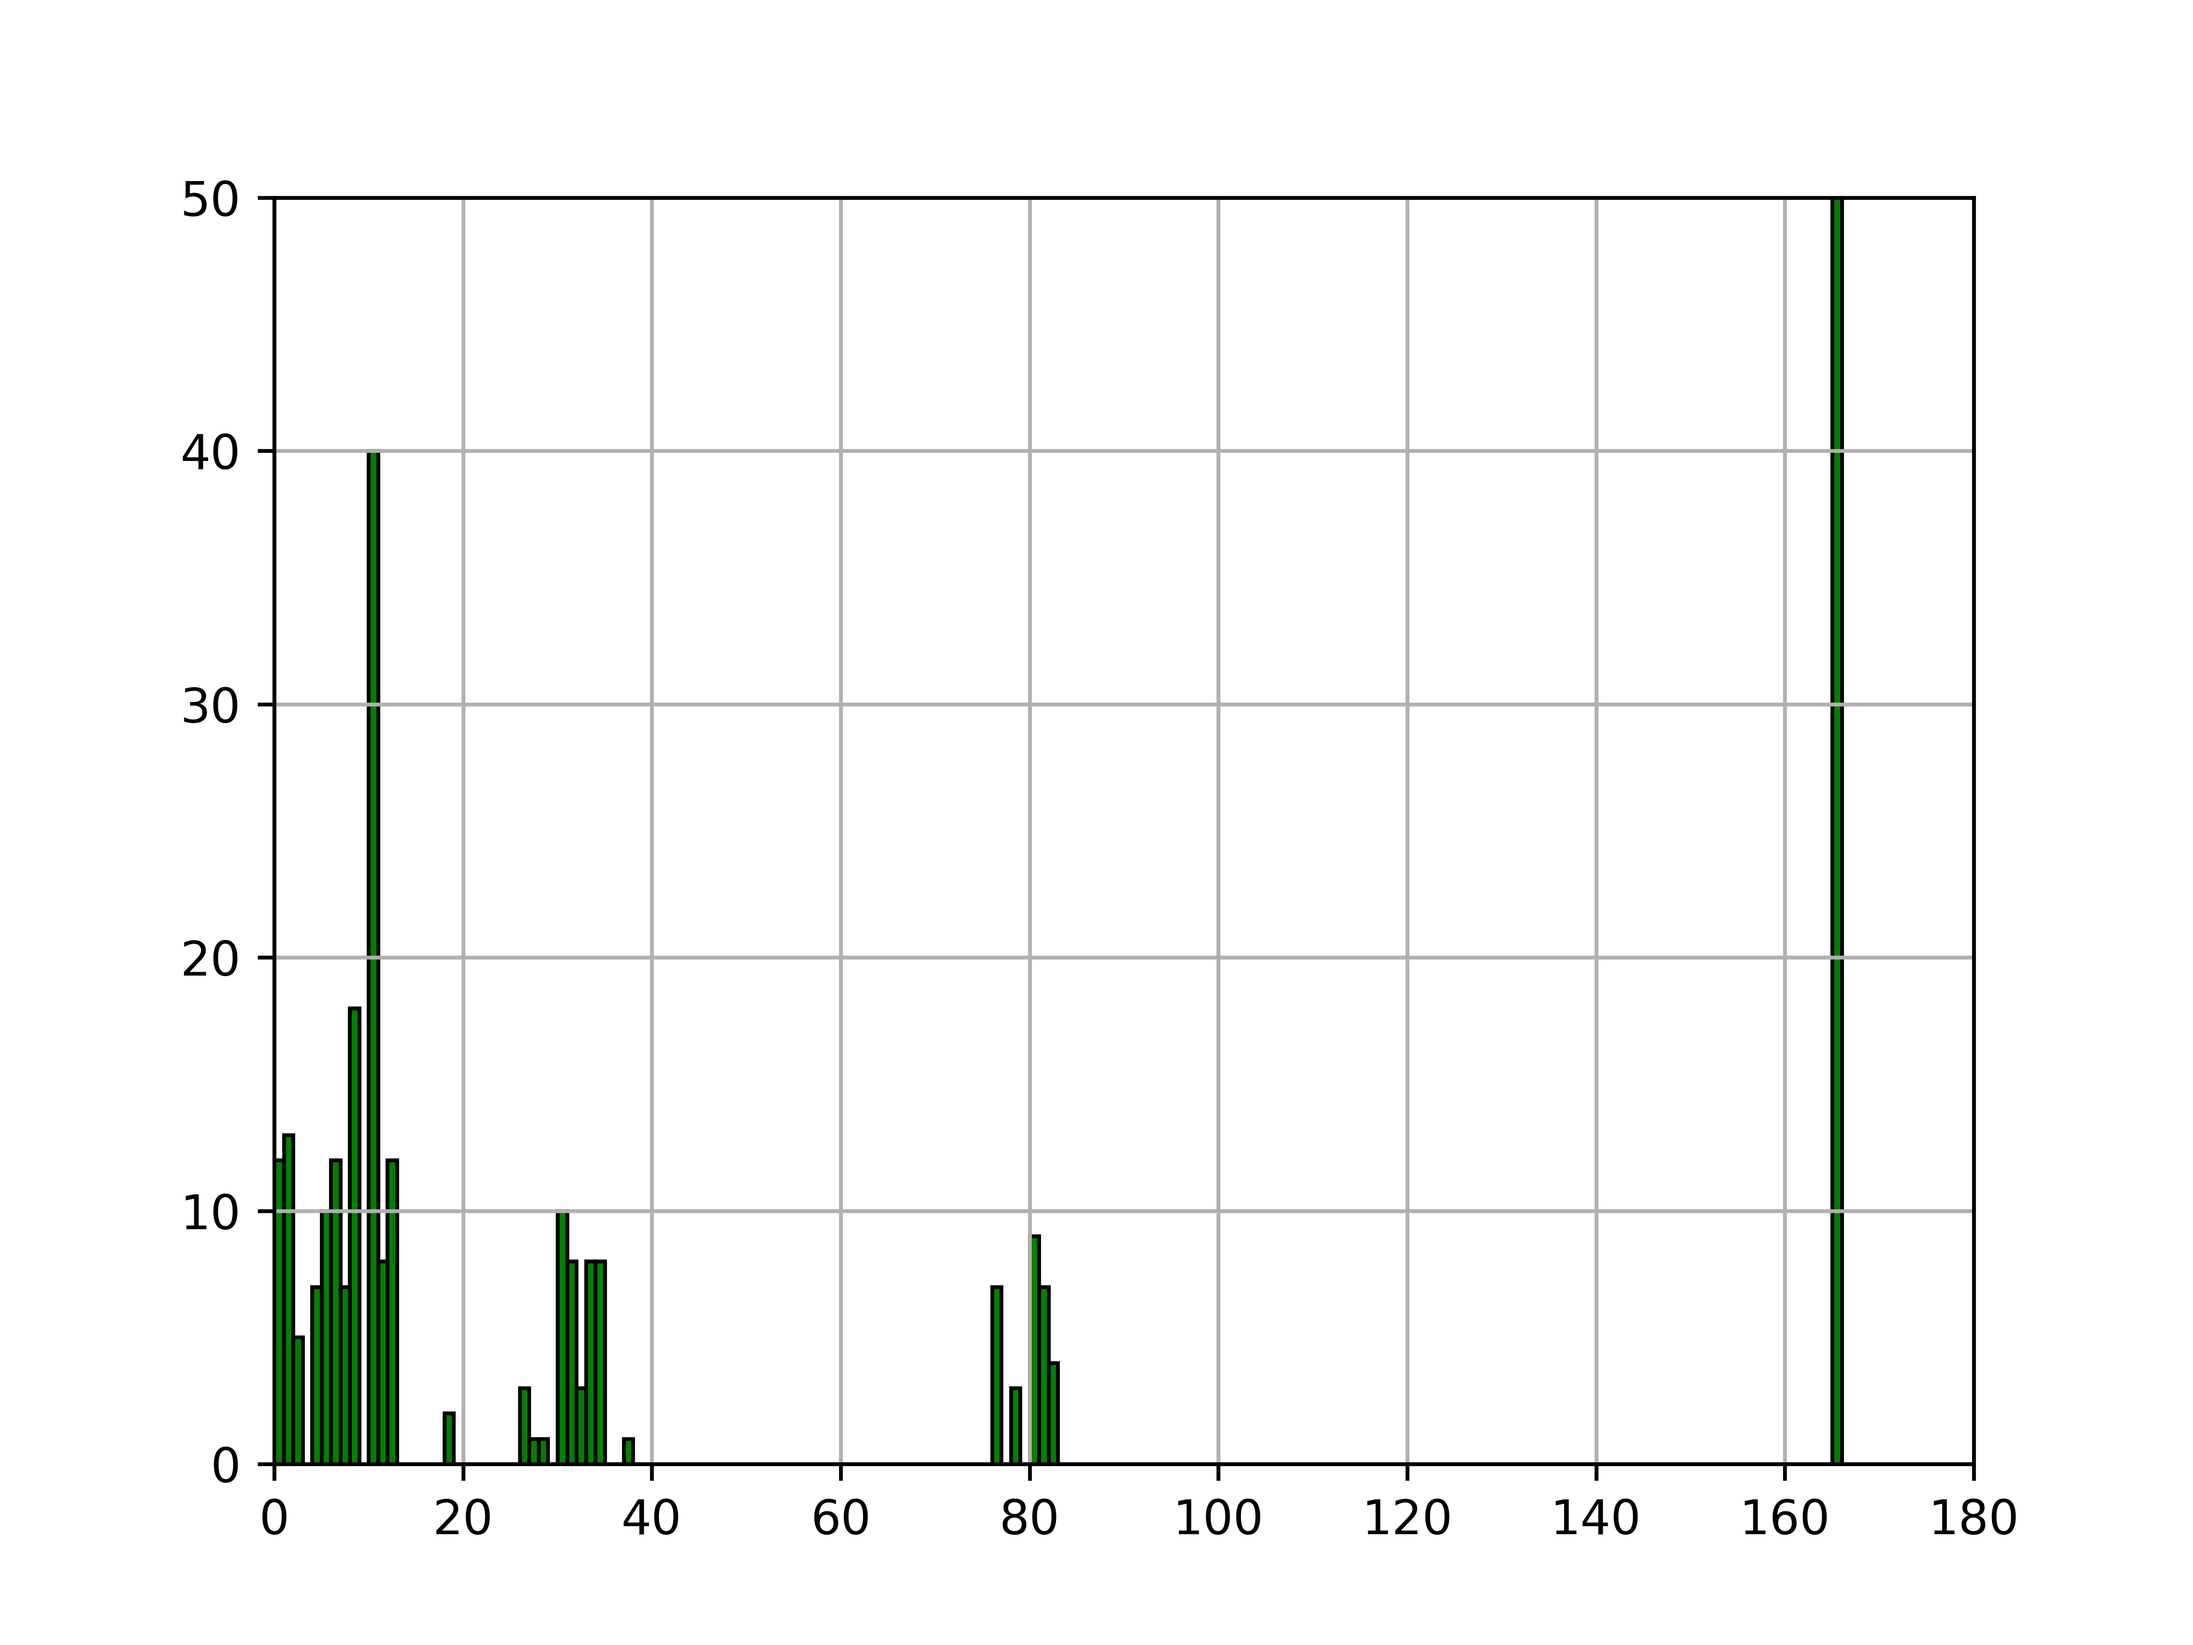
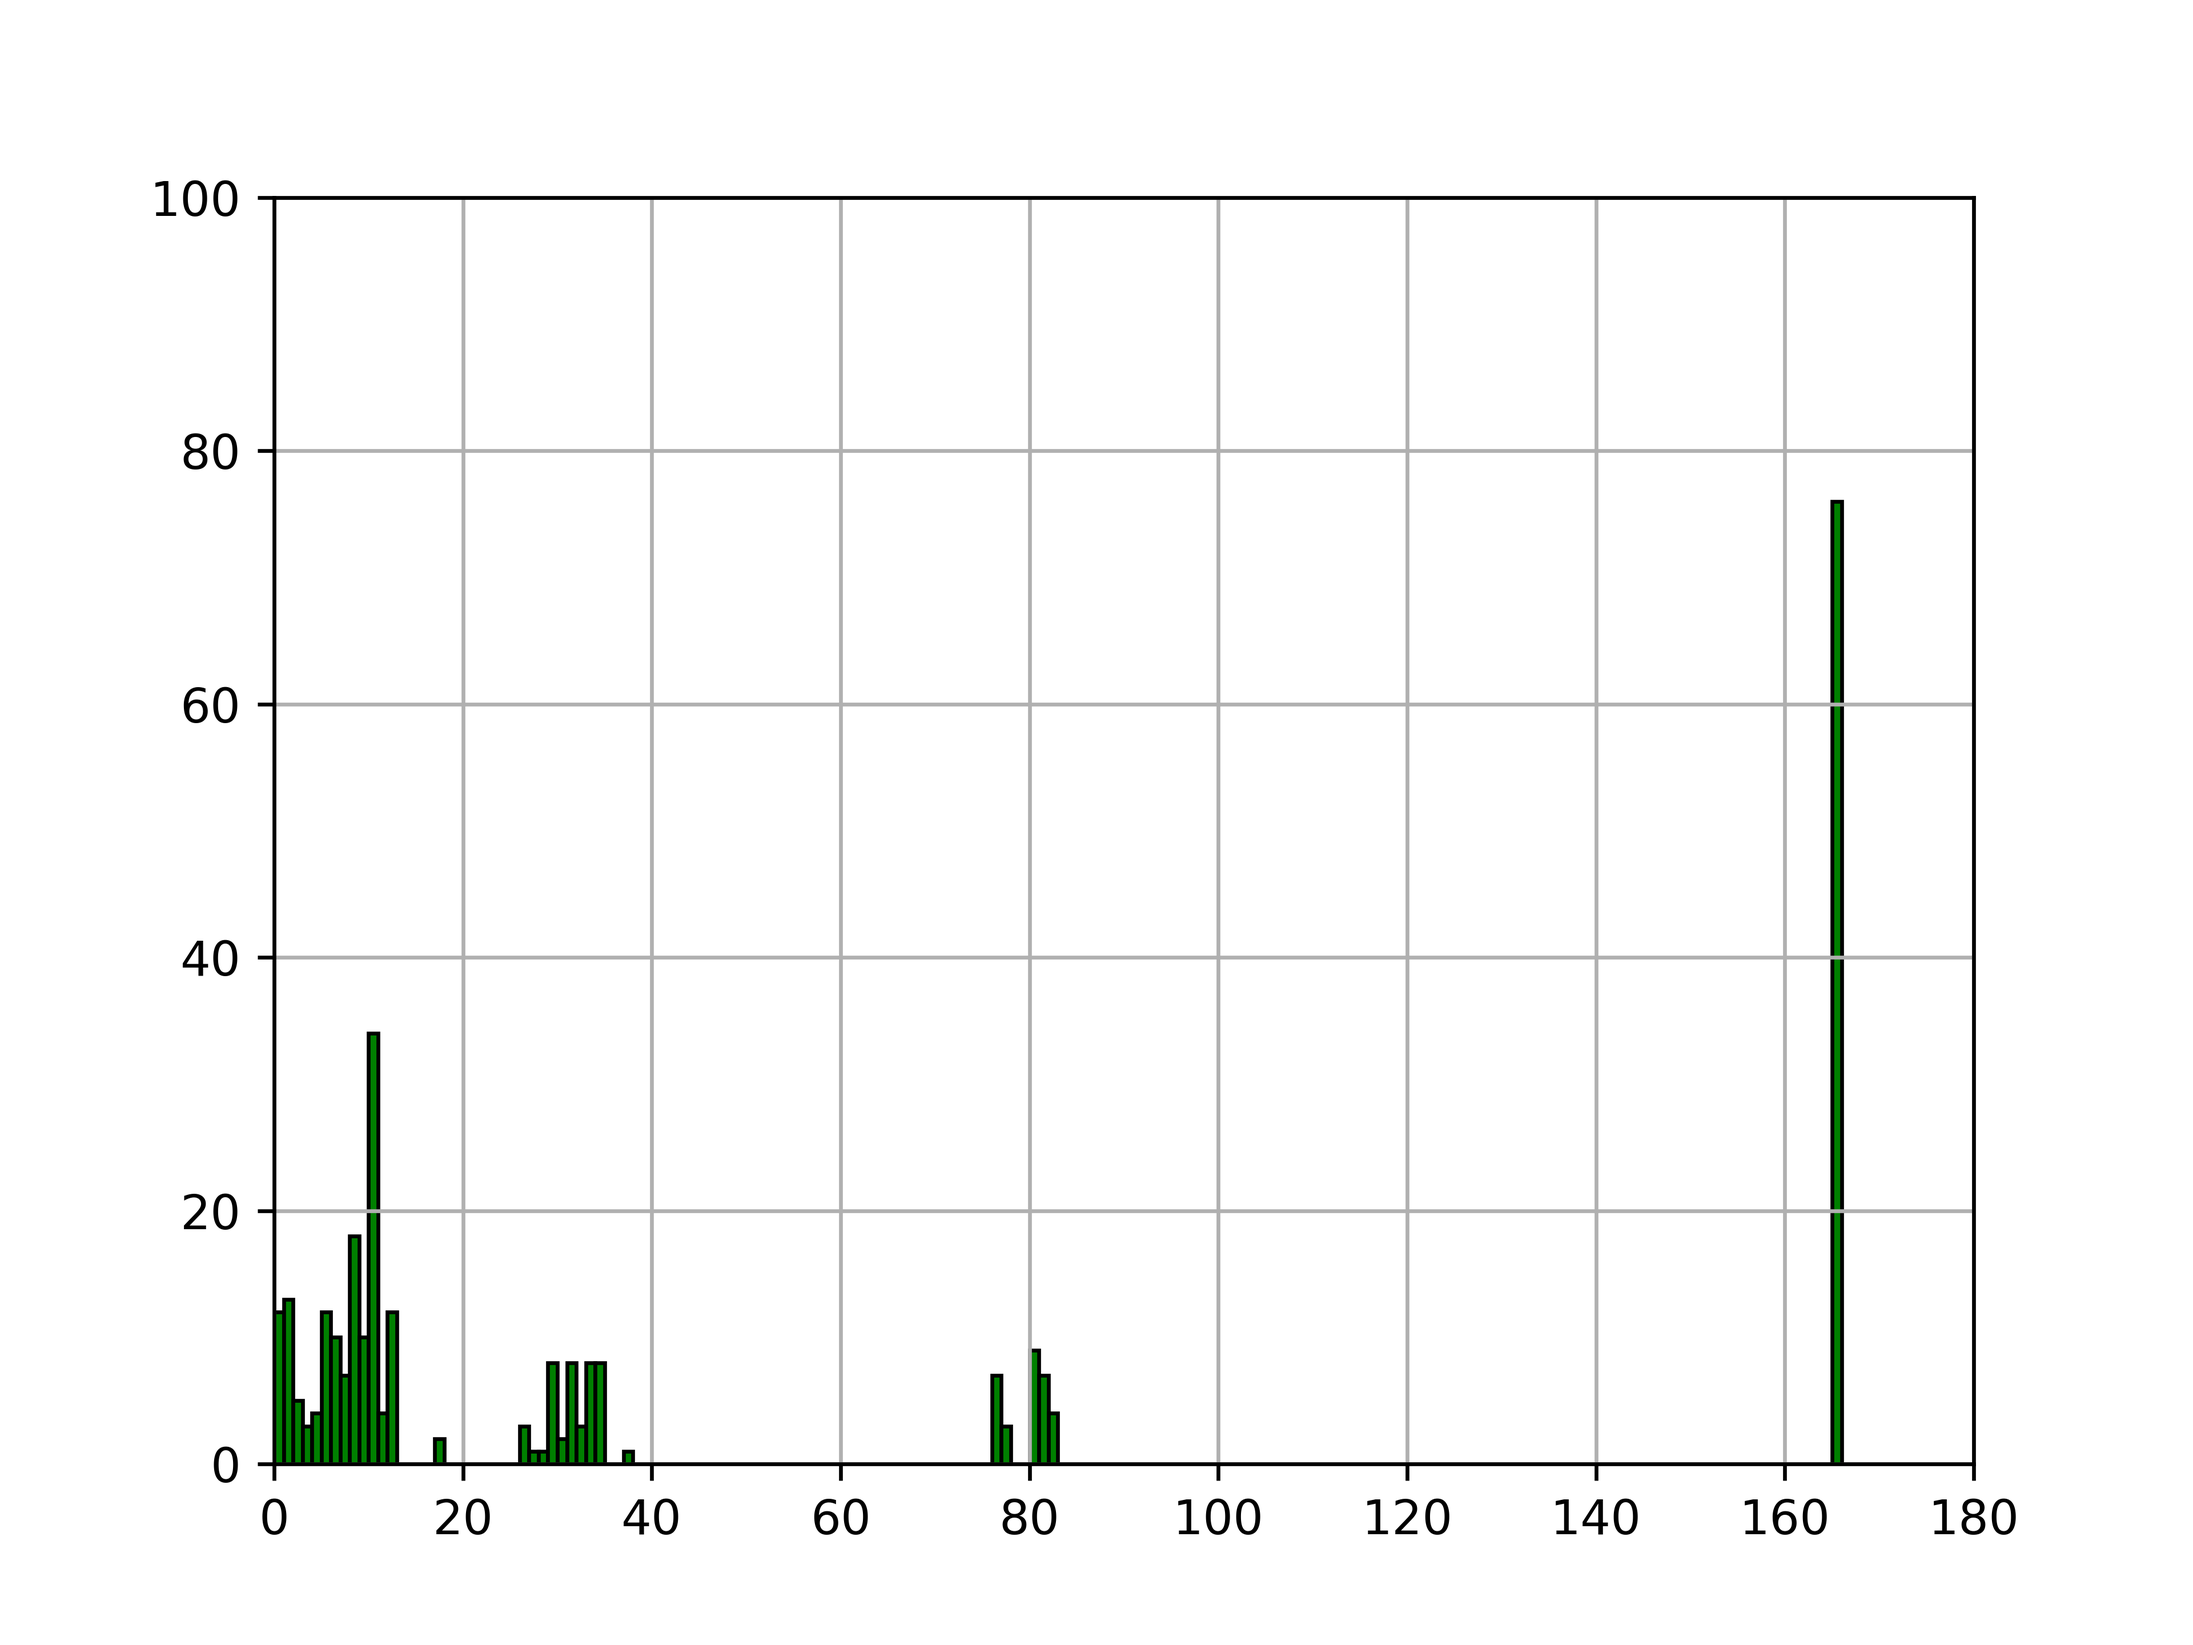
180716

diff --git a/scrape.py b/scrape.py
@@ -116,7 +116,7 @@ with open("stats", "a") as file:
         values.extend(list(map(converter, matches)))
 
         print("{}/{}".format(i, course[3]))
-        time.sleep(random.randrange(1, 15, 1))
+        #time.sleep(random.randrange(1, 30, 1))
 
       if len(values) != 0:
         mean = sum(values) / float(len(values))
@@ -139,7 +139,7 @@ with open("stats", "a") as file:
         plt.cla()
 
         plt.hist(values, bins = max(values), edgecolor = 'black', facecolor = 'green', linewidth=0.8)
-        plt.axis([0, 180, 0, 50])
+        plt.axis([0, 180, 0, 100])
         #plt.gca().yaxis.set_major_locator(ticker.MultipleLocator(25))
         #plt.gca().yaxis.set_minor_locator(ticker.MultipleLocator(5))
         plt.grid(True)
